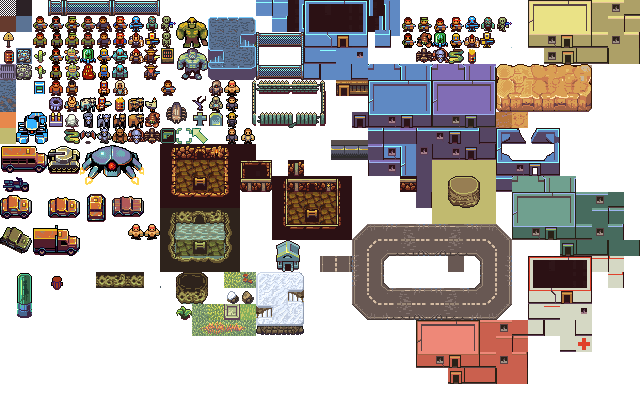
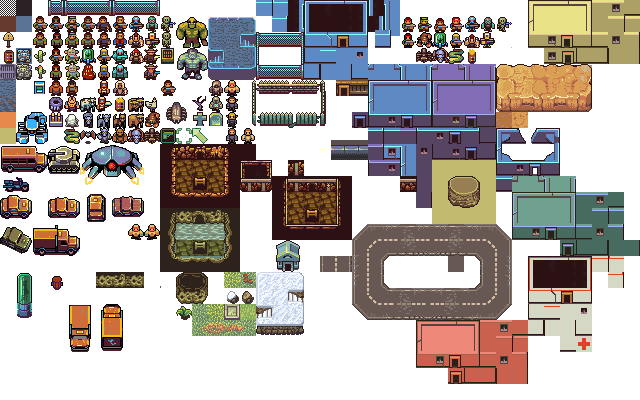
Add Light Pillar class

Changed region(s): [[0.0938, 0.75, 0.2188, 0.9]]

diff --git a/src/GameObjects/LightPillar.ts b/src/GameObjects/LightPillar.ts
@@ -1,0 +1,9 @@
+import { Interactive } from "./Interactive";
+
+type LightPillarColor = "yellow" | "purple" | "cyan";
+
+export class LightPillar extends Interactive {
+    constructor(scene: Phaser.Scene, x: number, y: number, color: LightPillarColor) {
+        super(scene, x, y, `${color}-light-pillar`, scene.player);
+    }
+}

diff --git a/src/GameObjects/index.ts b/src/GameObjects/index.ts
@@ -1,2 +1,4 @@
+export * from "./Interactive";
+export * from "./LightPillar";
 export * from "./Actor";
 export * from "./Player";
